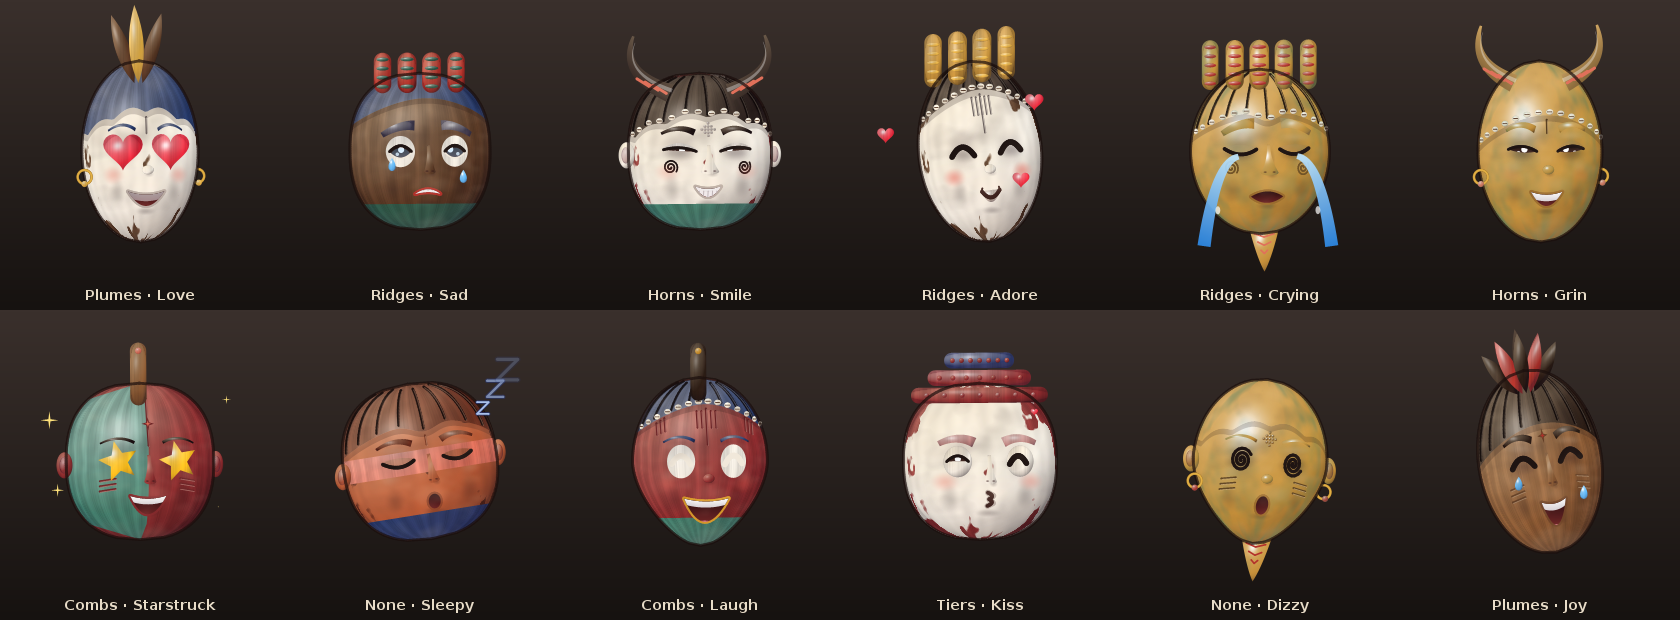
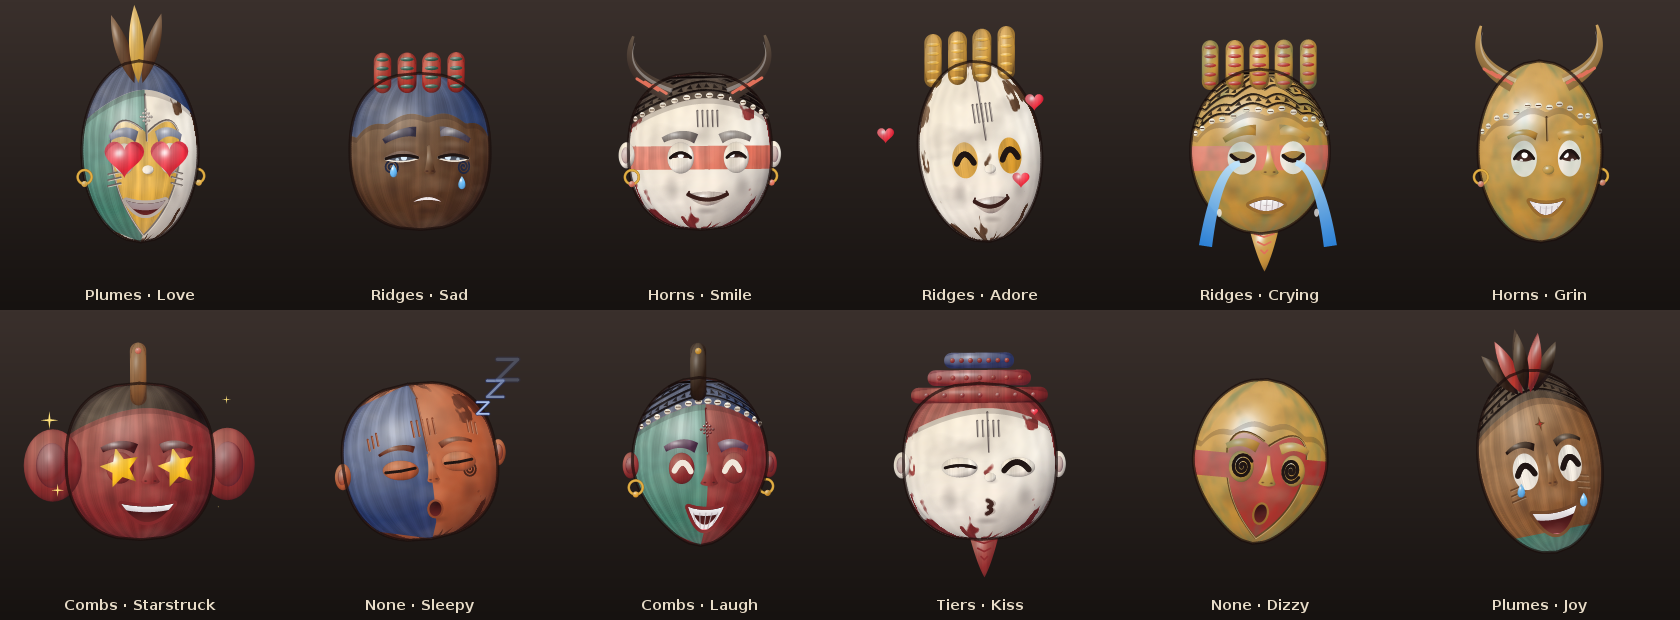
Emoji masks: African sculptural conventions in place of East Asian cues
The painted maidens were reading as Noh or geisha masks. This replaces the
cues behind that with the carvers' own:
- Eyes: the Dan and Punu coffee-bean eye, a swollen lid carved in the
  face's wood with a straight slit, is now the default. Painted lids show
  as a dark edge line. Almond and slit eyes stay level or droop at the
  outer corner instead of slanting up.
- Coiffure: carved bands stack up the crest, following the hairline, with
  zigzag cuts between them, instead of grooves hanging like a fringe.
- Proportions: a higher domed forehead, with the features lower on it.
- Mouth: fuller protruding carved lips in wood tones. Wood and brass masks
  get no pink blush, and generated masks no red bow lips.
- New Fang heart-shaped face: a concave plane from brow to chin, framed by
  a carved ridge. Adds the Fang Ngil preset; generated masks favour bean,
  tube and round eyes and high or bald hairlines.

Claude-Session: https://claude.ai/code/session_012NjHhwH1EvBHzbd255Gvhb

diff --git a/engine/model/src/main/kotlin/com/stratum/engine/model/mask/EmojiMask.kt b/engine/model/src/main/kotlin/com/stratum/engine/model/mask/EmojiMask.kt
@@ -44,7 +44,7 @@ object EmojiMask {
     enum class Crest(val label: String) {
         NONE("None"), COMBS("Combs"), LOBES("Lobes"), RIDGES("Ridges"), KNOTS("Knots"), CONE("Cone"), HORNS("Horns"), TIERS("Tiers"), PLUMES("Plumes"),
     }
-    enum class EyeStyle(val label: String) { SLIT("Heavy-lidded slits"), ALMOND("Almond"), ROUND("Round spirit eyes"), TUBE("Mgbedike tubes") }
+    enum class EyeStyle(val label: String) { SLIT("Heavy-lidded slits"), ALMOND("Almond"), ROUND("Round spirit eyes"), TUBE("Mgbedike tubes"), BEAN("Coffee-bean lids") }
     enum class BrowStyle(val label: String) { ARCH("Arched"), RIDGE("Heavy ridge"), THIN("Thin"), NONE("None") }
     enum class NoseStyle(val label: String) { LONG("Long"), BROAD("Broad"), BUTTON("Button"), NONE("None") }
     enum class MouthStyle(val label: String) { SMALL("Small"), TEETH("Bared teeth"), POUT("Pout"), WIDE("Wide") }
@@ -52,7 +52,7 @@ object EmojiMask {
     enum class Mark(val label: String) { ICHI("Ichi lines"), TEMPLE("Temple bars"), CHEEK("Cheek cuts"), STAR("Forehead star"), LINE("Centre line"), KELOID("Keloids") }
     /** What the mask is made of and how it is finished. */
     enum class Finish(val label: String) { CARVED("Carved wood"), PAINTED("Painted wood"), BRASS("Cast brass"), GLOSS("Glossy") }
-    enum class Paint(val label: String) { SPLIT("Split face"), EYE_BAND("Eye band"), SPIRALS("Uli spirals"), CHIN("Painted chin"), LIDS("Painted lids"), LIPS("Painted lips") }
+    enum class Paint(val label: String) { HEART("Heart-shaped face"), SPLIT("Split face"), EYE_BAND("Eye band"), SPIRALS("Uli spirals"), CHIN("Painted chin"), LIDS("Painted lids"), LIPS("Painted lips") }
 
     /** What makes a mask this mask. Colours are [AfricanMaskArt.PIGMENTS] indices. */
     data class Look(
@@ -65,14 +65,14 @@ object EmojiMask {
         val accent: Int = VERMILION,
         val accent2: Int = LAPIS,
         val crestColour: Int = LAMPBLACK,
-        val hairline: Hairline = Hairline.PEAK,
+        val hairline: Hairline = Hairline.HIGH,
         val braids: Boolean = true,
         val cowries: Boolean = false,
         val crest: Crest = Crest.COMBS,
         val crestCount: Int = 3,
         /** 0 small .. 1 tall. */
         val crestSize: Float = 0.5f,
-        val eyes: EyeStyle = EyeStyle.SLIT,
+        val eyes: EyeStyle = EyeStyle.BEAN,
         val brows: BrowStyle = BrowStyle.ARCH,
         val nose: NoseStyle = NoseStyle.LONG,
         val mouth: MouthStyle = MouthStyle.SMALL,
@@ -179,27 +179,30 @@ object EmojiMask {
 
     /** Masks after the carvers' own: maidens, spirits, the brave. */
     val presets: List<Look> = listOf(
-        Look("Agbogho Mmuo", shape = FaceShape.LONG, width = 0.4f, crestColour = BLACKWOOD, crestCount = 3, crestSize = 0.6f, mouth = MouthStyle.POUT,
-            marks = setOf(Mark.LINE, Mark.STAR, Mark.TEMPLE), paint = setOf(Paint.LIDS, Paint.LIPS)),
+        Look("Agbogho Mmuo", shape = FaceShape.LONG, width = 0.4f, crestColour = BLACKWOOD, crestCount = 3, crestSize = 0.6f, hairline = Hairline.HIGH,
+            marks = setOf(Mark.LINE, Mark.STAR, Mark.TEMPLE), paint = setOf(Paint.LIDS)),
+        Look("Fang Ngil", finish = Finish.CARVED, shape = FaceShape.LONG, ground = BLACKWOOD, wood = BLACKWOOD, hair = BLACKWOOD, accent = KAOLIN, width = 0.3f,
+            hairline = Hairline.BALD, crest = Crest.RIDGES, crestCount = 1, crestSize = 0.7f, crestColour = BLACKWOOD, eyes = EyeStyle.SLIT, brows = BrowStyle.NONE,
+            paint = setOf(Paint.HEART), marks = setOf(Mark.LINE)),
         Look("Okoroshi Ojo", finish = Finish.CARVED, ground = BLACKWOOD, wood = BLACKWOOD, hair = LAMPBLACK, accent = KAOLIN, accent2 = GOLD, hairline = Hairline.LOW,
             crest = Crest.NONE, eyes = EyeStyle.ROUND, brows = BrowStyle.RIDGE, nose = NoseStyle.BROAD, mouth = MouthStyle.TEETH, marks = setOf(Mark.ICHI), width = 0.7f),
         Look("Mgbedike", finish = Finish.CARVED, shape = FaceShape.ROUND, ground = MAHOGANY, wood = MAHOGANY, hair = BLACKWOOD, accent = KAOLIN, accent2 = GOLD, crestColour = BONE,
             hairline = Hairline.BALD, crest = Crest.HORNS, crestSize = 0.8f, eyes = EyeStyle.TUBE, brows = BrowStyle.RIDGE, nose = NoseStyle.BROAD, mouth = MouthStyle.TEETH,
             ears = Ears.SMALL, marks = setOf(Mark.CHEEK), beard = true, width = 0.8f),
         Look("Beaded Maiden", wood = IROKO, accent = VERMILION, accent2 = INDIGO, crest = Crest.RIDGES, crestCount = 1, crestSize = 0.9f, crestColour = INDIGO, cowries = true,
-            brows = BrowStyle.THIN, mouth = MouthStyle.POUT, paint = setOf(Paint.SPLIT, Paint.LIPS), marks = emptySet(), width = 0.35f, shape = FaceShape.LONG),
+            brows = BrowStyle.THIN, paint = setOf(Paint.SPLIT), marks = emptySet(), width = 0.35f, shape = FaceShape.LONG, hairline = Hairline.HIGH),
         Look("Conical Crest", wood = UMBER, crest = Crest.CONE, crestColour = IROKO, accent = OCHRE, accent2 = VERMILION, hairline = Hairline.HIGH,
             marks = setOf(Mark.LINE, Mark.KELOID), paint = setOf(Paint.LIDS)),
         Look("Afikpo Elder", finish = Finish.CARVED, shape = FaceShape.LONG, ground = IROKO, wood = IROKO, hair = BLACKWOOD, accent = VERMILION, accent2 = KAOLIN,
             hairline = Hairline.BALD, crest = Crest.NONE, paint = setOf(Paint.EYE_BAND), marks = setOf(Mark.ICHI), width = 0.25f, brows = BrowStyle.THIN),
         Look("Ijele Crown", ground = OCHRE, wood = MAHOGANY, accent = VERMILION, accent2 = JADE, crestColour = JADE, crest = Crest.TIERS, hairline = Hairline.HIGH,
-            eyes = EyeStyle.ALMOND, marks = setOf(Mark.ICHI), cowries = true),
-        Look("Knot Maiden", hair = INDIGO, crest = Crest.KNOTS, crestColour = INDIGO, crestCount = 3, hairline = Hairline.SCALLOP, eyes = EyeStyle.ALMOND,
-            marks = setOf(Mark.TEMPLE, Mark.KELOID), paint = setOf(Paint.SPIRALS), earrings = true, accent = CORAL, shape = FaceShape.HEART),
+            marks = setOf(Mark.ICHI), cowries = true),
+        Look("Knot Maiden", hair = INDIGO, crest = Crest.KNOTS, crestColour = INDIGO, crestCount = 3, eyes = EyeStyle.BEAN,
+            marks = setOf(Mark.TEMPLE, Mark.KELOID), paint = setOf(Paint.SPIRALS), earrings = true, accent = CORAL, shape = FaceShape.HEART, hairline = Hairline.HIGH),
         Look("Elephant Spirit", ground = TERRACOTTA, wood = BLACKWOOD, hair = LAMPBLACK, hairline = Hairline.LOW, crest = Crest.KNOTS, crestCount = 1, crestColour = BRASS,
             eyes = EyeStyle.ROUND, mouth = MouthStyle.TEETH, ears = Ears.ELEPHANT, accent = KAOLIN, marks = setOf(Mark.ICHI), shape = FaceShape.ROUND, width = 0.8f),
         Look("Benin Queen", finish = Finish.BRASS, ground = BRASS, wood = BRASS, hair = BRASS, crest = Crest.CONE, crestColour = BRASS, crestSize = 0.9f, hairline = Hairline.HIGH,
-            braids = false, cowries = true, eyes = EyeStyle.ALMOND, brows = BrowStyle.THIN, accent = CORAL, accent2 = CORAL, marks = setOf(Mark.TEMPLE), earrings = true,
+            braids = false, cowries = true, brows = BrowStyle.THIN, accent = CORAL, accent2 = CORAL, marks = setOf(Mark.TEMPLE), earrings = true,
             shape = FaceShape.LONG, width = 0.45f),
         Look("Camwood Maiden", finish = Finish.CARVED, ground = CAMWOOD, wood = CAMWOOD, hair = BLACKWOOD, crest = Crest.LOBES, crestCount = 3, crestColour = BLACKWOOD,
             accent = KAOLIN, accent2 = GOLD, paint = setOf(Paint.SPIRALS), marks = setOf(Mark.STAR), cowries = true),
@@ -221,7 +224,7 @@ object EmojiMask {
             else -> one(listOf(KAOLIN, KAOLIN, KAOLIN, BONE, OCHRE, CAMWOOD, TERRACOTTA, INDIGO))
         }
         val dark = ground in setOf(CAMWOOD, UMBER, CHARCOAL, INDIGO)
-        val eyes = one(listOf(EyeStyle.SLIT, EyeStyle.SLIT, EyeStyle.ALMOND, EyeStyle.ALMOND, EyeStyle.ROUND, EyeStyle.TUBE))
+        val eyes = one(listOf(EyeStyle.BEAN, EyeStyle.BEAN, EyeStyle.BEAN, EyeStyle.TUBE, EyeStyle.TUBE, EyeStyle.ROUND, EyeStyle.ROUND, EyeStyle.SLIT, EyeStyle.ALMOND))
         return Look(
             name = name,
             shape = one(FaceShape.entries),
@@ -231,7 +234,7 @@ object EmojiMask {
             accent = one(listOf(VERMILION, CAMWOOD, OCHRE, GOLD, CORAL, KAOLIN).filter { it != ground }),
             accent2 = one(listOf(LAPIS, INDIGO, JADE, MALACHITE, GOLD, KAOLIN, VERMILION).filter { it != ground }),
             crestColour = if (finish == Finish.BRASS) BRASS else one(listOf(BLACKWOOD, BLACKWOOD, wood, IROKO, BONE, BRASS, INDIGO, VERMILION)),
-            hairline = one(listOf(Hairline.PEAK, Hairline.PEAK, Hairline.HIGH, Hairline.SCALLOP, Hairline.LOW, Hairline.BALD)),
+            hairline = one(listOf(Hairline.HIGH, Hairline.HIGH, Hairline.HIGH, Hairline.BALD, Hairline.BALD, Hairline.SCALLOP, Hairline.PEAK)),
             braids = r.nextFloat() < 0.6f,
             cowries = r.nextFloat() < 0.35f,
             crest = one(Crest.entries),
@@ -243,7 +246,7 @@ object EmojiMask {
             mouth = if (eyes == EyeStyle.TUBE || eyes == EyeStyle.ROUND) one(listOf(MouthStyle.TEETH, MouthStyle.WIDE)) else one(MouthStyle.entries),
             ears = one(listOf(Ears.NONE, Ears.NONE, Ears.NONE, Ears.SMALL, Ears.ELEPHANT)),
             marks = some(Mark.entries, 3),
-            paint = some(Paint.entries, 2).let { if (dark) it - Paint.LIDS else it },
+            paint = some(Paint.entries - Paint.LIPS, 2).let { if (dark) it - Paint.LIDS else it },
             earrings = r.nextFloat() < 0.25f,
             beard = r.nextFloat() < 0.15f,
             finish = finish,
@@ -605,21 +608,41 @@ object EmojiMask {
             }
         }
 
-        /** Carved cornrows: grooves cut back over the crown, each with a lit lower edge. */
+        /**
+         * A carved coiffure: bands stacked up the crown, each following the
+         * hairline a little higher, with rows of triangular cuts between them.
+         */
         fun grooves() {
-            val rows = 11
-            for (k in 0 until rows) {
-                val th = (k - (rows - 1) / 2f) * 0.34f
+            val lit = mix(pigment(look.hair), c(0xE8D8C0), 0.35f)
+            var dv = 0.1f; var band = 0
+            while (true) {
                 val pts = ArrayList<Float>()
-                var v = hairV(th) + 0.04f
-                while (v < 0.97f) {
-                    if (cos(th + yaw) * w(v) > 0.08f) { val p = FloatArray(2); ang(th, v, 0f, p, 0); pts += p[0]; pts += p[1] }
-                    v += 0.04f
+                var th = -HALF_PI - yaw
+                while (th <= HALF_PI - yaw) {
+                    val v = hairV(th) + dv
+                    if (v < 0.95f && cos(th + yaw) * w(v) > 0.05f) { val p = FloatArray(2); ang(th, v, 0f, p, 0); pts += p[0]; pts += p[1] }
+                    th += 0.05f
                 }
-                if (pts.size < 4) continue
+                if (pts.size < 4) break
                 val line = pts.toFloatArray()
-                cv.stroke(line, 0.032f, c(0x0C0606), opacity = 0.85f)
-                cv.stroke(Shapes.offset(line, 0.012f, -0.012f), 0.012f, mix(pigment(look.hair), c(0xE8D8C0), 0.35f), opacity = 0.6f)
+                cv.stroke(line, 0.03f, c(0x0C0606), opacity = 0.85f)
+                cv.stroke(Shapes.offset(line, 0.01f, -0.012f), 0.012f, lit, opacity = 0.6f)
+                // Triangular cuts along every other band: a carver's zigzag.
+                if (band % 2 == 1) {
+                    var tt = -1.4f
+                    while (tt < 1.4f) {
+                        val v = hairV(tt) + dv - 0.05f
+                        if (cos(tt + yaw) * w(v) > 0.2f) {
+                            val a = FloatArray(2); ang(tt, v + 0.035f, 0f, a, 0)
+                            val b = FloatArray(2); ang(tt + 0.06f, v - 0.02f, 0f, b, 0)
+                            val cc = FloatArray(2); ang(tt - 0.06f, v - 0.02f, 0f, cc, 0)
+                            cv.fill(floatArrayOf(a[0], a[1], b[0], b[1], cc[0], cc[1]), c(0x0C0606), 0.75f)
+                        }
+                        tt += 0.18f
+                    }
+                }
+                dv += 0.11f; band++
+                if (band > 9) break
             }
         }
 
@@ -653,6 +676,15 @@ object EmojiMask {
                     val pts = FloatArray(82)
                     for (i in 0..40) { val k = i / 40f; val a = k * 4.2f * PI.toFloat() * sd; val r = 0.012f + 0.085f * k; pts[i * 2] = sd * 0.52f + cos(a) * r; pts[i * 2 + 1] = -0.2f + sin(a) * r }
                     if (facing(sd * 0.52f, -0.2f) > 0.1f) cv.stroke(onFace(pts), 0.02f, ink)
+                }
+                Paint.HEART -> {
+                    // The Fang heart: a concave plane from the brows down to the chin, framed by a carved ridge.
+                    val right = Shapes.quad(0f, BROW_V + 0.02f, 0.5f, BROW_V + 0.34f, 0.6f, BROW_V - 0.06f, 12) +
+                        Shapes.quad(0.6f, BROW_V - 0.06f, 0.62f, -0.5f, 0f, -0.93f, 14).copyOfRange(2, 30)
+                    val left = FloatArray(right.size) { k -> if (k % 2 == 0) -right[right.size - 2 - k] else right[right.size - k] }
+                    val heart = onFace(right + left.copyOfRange(2, left.size - 2))
+                    cv.fill(heart, headPaint(accentMat))
+                    groove(heart)
                 }
                 Paint.LIDS, Paint.LIPS -> Unit
             }
@@ -708,7 +740,7 @@ object EmojiMask {
 
         fun blush() {
             val amount = (f.blush + f.anger * 0.3f).coerceIn(0f, 1.2f)
-            if (amount <= 0f) return
+            if (amount <= 0f || !gloss) return
             val col = if (luma(pigment(look.ground)) > 0.5f) c(0xE8584A) else c(0xFF6A5A)
             sides { sd -> softOnFace(sd * 0.56f, -0.26f, 0.24f, 0.14f, col, 0.55f * amount) }
         }
@@ -749,8 +781,8 @@ object EmojiMask {
             val fc = facing(cu, v)
             if (fc <= 0.05f) return
             val st = look.eyes
-            val ew = when (st) { EyeStyle.SLIT -> 0.22f; EyeStyle.ALMOND -> 0.195f; EyeStyle.ROUND -> 0.15f; EyeStyle.TUBE -> 0.13f }
-            val eh = when (st) { EyeStyle.SLIT -> 0.085f; EyeStyle.ALMOND -> 0.11f; EyeStyle.ROUND -> 0.15f; EyeStyle.TUBE -> 0.13f }
+            val ew = when (st) { EyeStyle.SLIT -> 0.22f; EyeStyle.ALMOND -> 0.19f; EyeStyle.ROUND -> 0.15f; EyeStyle.TUBE -> 0.13f; EyeStyle.BEAN -> 0.19f }
+            val eh = when (st) { EyeStyle.SLIT -> 0.07f; EyeStyle.ALMOND -> 0.1f; EyeStyle.ROUND -> 0.15f; EyeStyle.TUBE -> 0.13f; EyeStyle.BEAN -> 0.055f }
             // The carved socket: a soft hollow round the eye.
             softOnFace(cu, v + 0.01f, ew * 1.6f, eh * 2.4f + 0.05f, c(0x2A1420), 0.16f)
             if (st == EyeStyle.TUBE) {
@@ -758,6 +790,7 @@ object EmojiMask {
                 val rw = (ew + 0.06f) * rx * (0.4f + 0.6f * fc); val rh = eh + 0.06f
                 cv.fill(Shapes.ellipse(p[0], p[1], rw, rh, 36), blobPaint(faceMat, p[0], p[1], rw, rh))
             }
+            if (st == EyeStyle.BEAN) beanMound(cu, v, ew, fc)
             if (st == EyeStyle.ROUND) {
                 cv.fill(onFace(Shapes.ellipse(cu, v, ew + 0.05f, eh + 0.05f, 36)), headPaint(material(if (look.ground == KAOLIN) pigment(look.accent) else pigment(KAOLIN), 0.4f)))
             }
@@ -793,10 +826,11 @@ object EmojiMask {
             val open = (if (sd < 0) f.eyeOpenL else f.eyeOpenR) * blinkK
             val smile = f.eyeSmile.coerceIn(0f, 1f)
             val lidCol = if (Paint.LIDS in look.paint) hairMat else material(mix(pigment(look.ground), c(0x3A2028), 0.16f), 0.4f)
-            if (open < 0.12f) { closedEye(cu, v, ew, sd, smile, lidCol); return }
+            if (open < 0.12f || (st == EyeStyle.BEAN && open < 0.3f && smile < 0.45f)) { closedEye(cu, v, ew, sd, smile, lidCol); return }
             val o = open.coerceAtMost(1.4f)
             val lift = if (st == EyeStyle.TUBE) 0.05f else 0f
-            val tilt = when (st) { EyeStyle.SLIT -> 0.025f; EyeStyle.ALMOND -> 0.04f; else -> 0f }
+            // Level or drooping at the outer corner, as the carvers cut them -- never slanting up.
+            val tilt = when (st) { EyeStyle.SLIT -> -0.012f; EyeStyle.ALMOND -> -0.02f; else -> 0f }
             val ix = cu - sd * ew; val ox = cu + sd * ew
             val up = v + 2f * eh * o * (1f + 0.2f * smile)
             val low = v + 2f * eh * o * (-(1f - smile) + 0.8f * smile)
@@ -827,7 +861,22 @@ object EmojiMask {
             cv.stroke(onFace(upper, lift), 0.034f, EYE_DARK)
         }
 
+        /** The coffee-bean eye of Dan and Punu carving: a swollen lid, the eye a slit across it. */
+        fun beanMound(cu: Float, v: Float, ew: Float, fc: Float) {
+            val p = point(cu, v + 0.005f, 0.035f)
+            val rw = (ew + 0.05f) * rx * (0.4f + 0.6f * fc); val rh = 0.12f
+            val mound = Shapes.ellipse(p[0], p[1], rw, rh, 40)
+            cv.fill(mound, blobPaint(faceMat, p[0], p[1], rw, rh))
+            // Painted lids: a dark line round the lid's edge, not a dark lid.
+            if (Paint.LIDS in look.paint) cv.stroke(mound, 0.022f, pigment(look.hair), closed = true, opacity = 0.85f)
+        }
+
         fun closedEye(cu: Float, v: Float, ew: Float, sd: Float, smile: Float, lidCol: Material) {
+            if (look.eyes == EyeStyle.BEAN && smile <= 0.45f) {
+                // The bean's slit: a straight cut across the mound.
+                cv.stroke(onFace(floatArrayOf(cu - sd * ew * 0.95f, v + 0.005f, cu, v - 0.004f, cu + sd * ew * 0.95f, v + 0.005f), 0.036f), 0.034f, if (darkGround) c(0x0C0606) else EYE_DARK)
+                return
+            }
             if (smile > 0.45f) {
                 // Laughing: an arch, like ^.
                 cv.stroke(onFace(Shapes.quad(cu - sd * ew * 0.9f, v - 0.04f, cu, v + 0.17f, cu + sd * ew * 0.9f, v - 0.03f, 16)), 0.068f, eyeLine)
@@ -865,7 +914,7 @@ object EmojiMask {
             val mv = MOUTH_V
             val cu = f.mouthSide * 0.06f
             if (facing(cu, mv) <= 0.05f) return
-            val hw = (0.13f + 0.13f * f.mouthWide) * when (look.mouth) { MouthStyle.WIDE -> 1.35f; MouthStyle.POUT -> 0.8f; else -> 1f }
+            val hw = (0.15f + 0.13f * f.mouthWide) * when (look.mouth) { MouthStyle.WIDE -> 1.35f; MouthStyle.POUT -> 0.8f; else -> 1f }
             val smile = f.mouthSmile
             val lips = Paint.LIPS in look.paint || look.mouth == MouthStyle.POUT || wooden || metal
             val lipCol = if (Paint.LIPS in look.paint) pigment(look.accent) else if (gloss) mix(pigment(look.ground), c(0x8A2A2A), 0.45f)
@@ -892,7 +941,7 @@ object EmojiMask {
             if (open < 0.06f && teeth < 0.5f) {
                 val curve = Shapes.quad(cu - hw, lcy, cu, mv - smile * 0.1f, cu + hw, rcy, 18)
                 if (lips) {
-                    val lipShape = Shapes.quad(cu - hw - 0.02f, lcy, cu, mv + 0.07f, cu + hw + 0.02f, rcy, 14) + Shapes.quad(cu + hw + 0.02f, rcy, cu, mv - smile * 0.1f - 0.1f, cu - hw - 0.02f, lcy, 14).let { it.copyOfRange(2, it.size - 2) }
+                    val lipShape = Shapes.quad(cu - hw - 0.03f, lcy, cu, mv + 0.12f, cu + hw + 0.03f, rcy, 14) + Shapes.quad(cu + hw + 0.03f, rcy, cu, mv - smile * 0.1f - 0.15f, cu - hw - 0.03f, lcy, 14).let { it.copyOfRange(2, it.size - 2) }
                     val s = onFace(lipShape)
                     val b = bounds(s)
                     cv.fill(s, blobPaint(material(lipCol, 0.7f), (b[0] + b[2]) / 2f, (b[1] + b[3]) / 2f, (b[2] - b[0]) / 2f, (b[3] - b[1]) / 2f))
@@ -908,7 +957,7 @@ object EmojiMask {
             val upper = Shapes.quad(cu - hw, lcy, cu, topCtrl, cu + hw, rcy, 18)
             val lower = Shapes.quad(cu + hw, rcy, cu, botCtrl, cu - hw, lcy, 18)
             val shape = onFace(upper + lower.copyOfRange(2, lower.size - 2))
-            if (lips) cv.stroke(shape, 0.05f, lipCol, closed = true) else rim(shape)
+            if (lips) cv.stroke(shape, 0.075f, lipCol, closed = true) else rim(shape)
             val b = bounds(shape)
             cv.fill(shape, linear(0f, b[3], MOUTH_TOP, 0f, b[1], MOUTH_DEEP))
             cv.clipped(shape) {
@@ -1241,10 +1290,10 @@ object EmojiMask {
     // ---- constants --------------------------------------------------------------------
 
     private const val HALF_PI = (PI / 2).toFloat()
-    private const val EYE_U = 0.39f
-    private const val EYE_V = 0.0f
-    private const val BROW_V = 0.26f
-    private const val MOUTH_V = -0.5f
+    private const val EYE_U = 0.37f
+    private const val EYE_V = -0.08f
+    private const val BROW_V = 0.18f
+    private const val MOUTH_V = -0.6f
 
     // The key light, from the upper left in front; and the highlight's half vector.
     private val L = norm(-0.5f, 0.72f, 0.62f)
